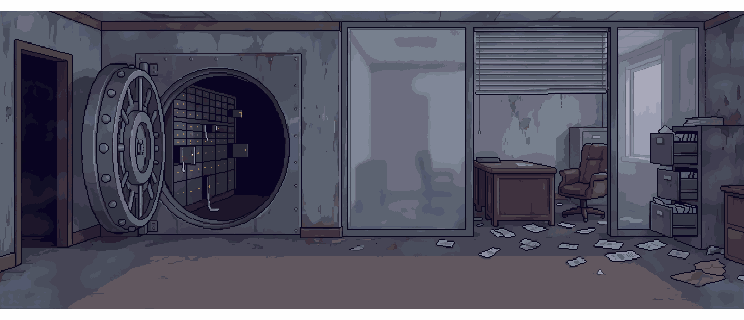
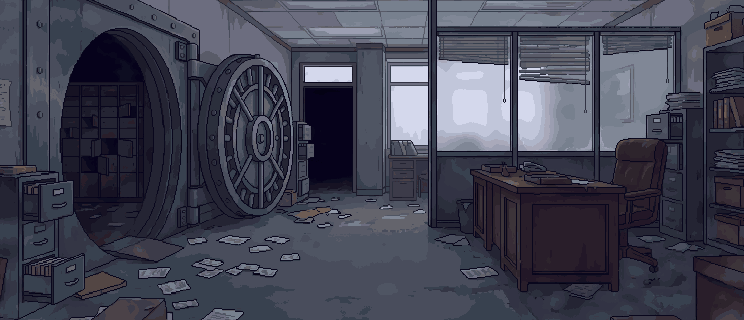
Art: the Manager's den rerolled clean to every edge (styled on the Registrar's, the Bank's plate carries a border)
Claude-Session: https://claude.ai/code/session_01V3rcMvf87vtfExpUptqkiv

diff --git a/tools/make_boss_backdrops_manifest.py b/tools/make_boss_backdrops_manifest.py
@@ -40,6 +40,10 @@ WALL_W, WALL_H = 744, 256                       # make_fight_walls_manifest.py's
 SEED0 = 105000      # clear of every other manifest's seeds (fight kit 97xxx, web 98xxx, walls 101xxx, generator 102xxx, skills 103xxx, chase 104xxx)
 OUT_DIR = "art/fight_boss"
 REROLL = {"The Quartermaster": 2000, "The Registrar": 2000}    # 25 Oct: covers came back inset twice (margin at the sides and bottom)
+PLATE_REROLL = {"The Manager": 2000}    # 25 Oct: an 11 px blank band top and bottom, then a full border at +1000
+# the_bank_plate (and ransacked_streets_plate) has a 12/28 px border of its own, and the Manager copied it; the
+# Registrar's plate was styled on the Bank and came back clean, so it carries the palette without the border
+PLATE_STYLE = {"The Manager": "res://art/fight_boss/the_registrar_plate.png"}
 OWN = ("pixellab_boss_backdrops_manifest.json", "pixellab_boss_backdrops_test_manifest.json")
 SITE_KEYS = [k for k, _s, _c in kit.SITES]      # by data.gd's site index (the kit's SITES are in the same order)
 
@@ -110,14 +114,15 @@ def boss_names():
 def plate_job(boss, site, scene, seed, card=None):
     words = kit.POV + "looking " + scene + ". " + kit.EMPTY + " " + kit.LAYOUT + " "
     j = {"out": "%s/%s_plate.png" % (OUT_DIR, slug(boss)), "width": PLATE_W, "height": PLATE_H, "no_background": False,
-         "seed": seed, "endpoint": "generate-image-v2", "single": True, "style_options": kit.STYLE,
-         "style_image": "res://art/fight_new/%s_plate.png" % site}
+         "seed": seed + PLATE_REROLL.get(boss, 0), "endpoint": "generate-image-v2", "single": True,
+         "style_options": kit.STYLE,
+         "style_image": PLATE_STYLE.get(boss, "res://art/fight_new/%s_plate.png" % site)}
     if card:
         j["reference_images"] = [card]
         words += MAP_CARD + " "
     j["description"] = words + kit.TAIL
-    j["_where"] = "%s's fight, the plate: his den at %s (styled on art/fight_new/%s_plate.png%s)" % (
-        boss, site, site, (", the place from " + card.replace("res://", "")) if card else "")
+    j["_where"] = "%s's fight, the plate: his den at %s (styled on %s%s)" % (
+        boss, site, j["style_image"].replace("res://", ""), (", the place from " + card.replace("res://", "")) if card else "")
     return j
 
 
